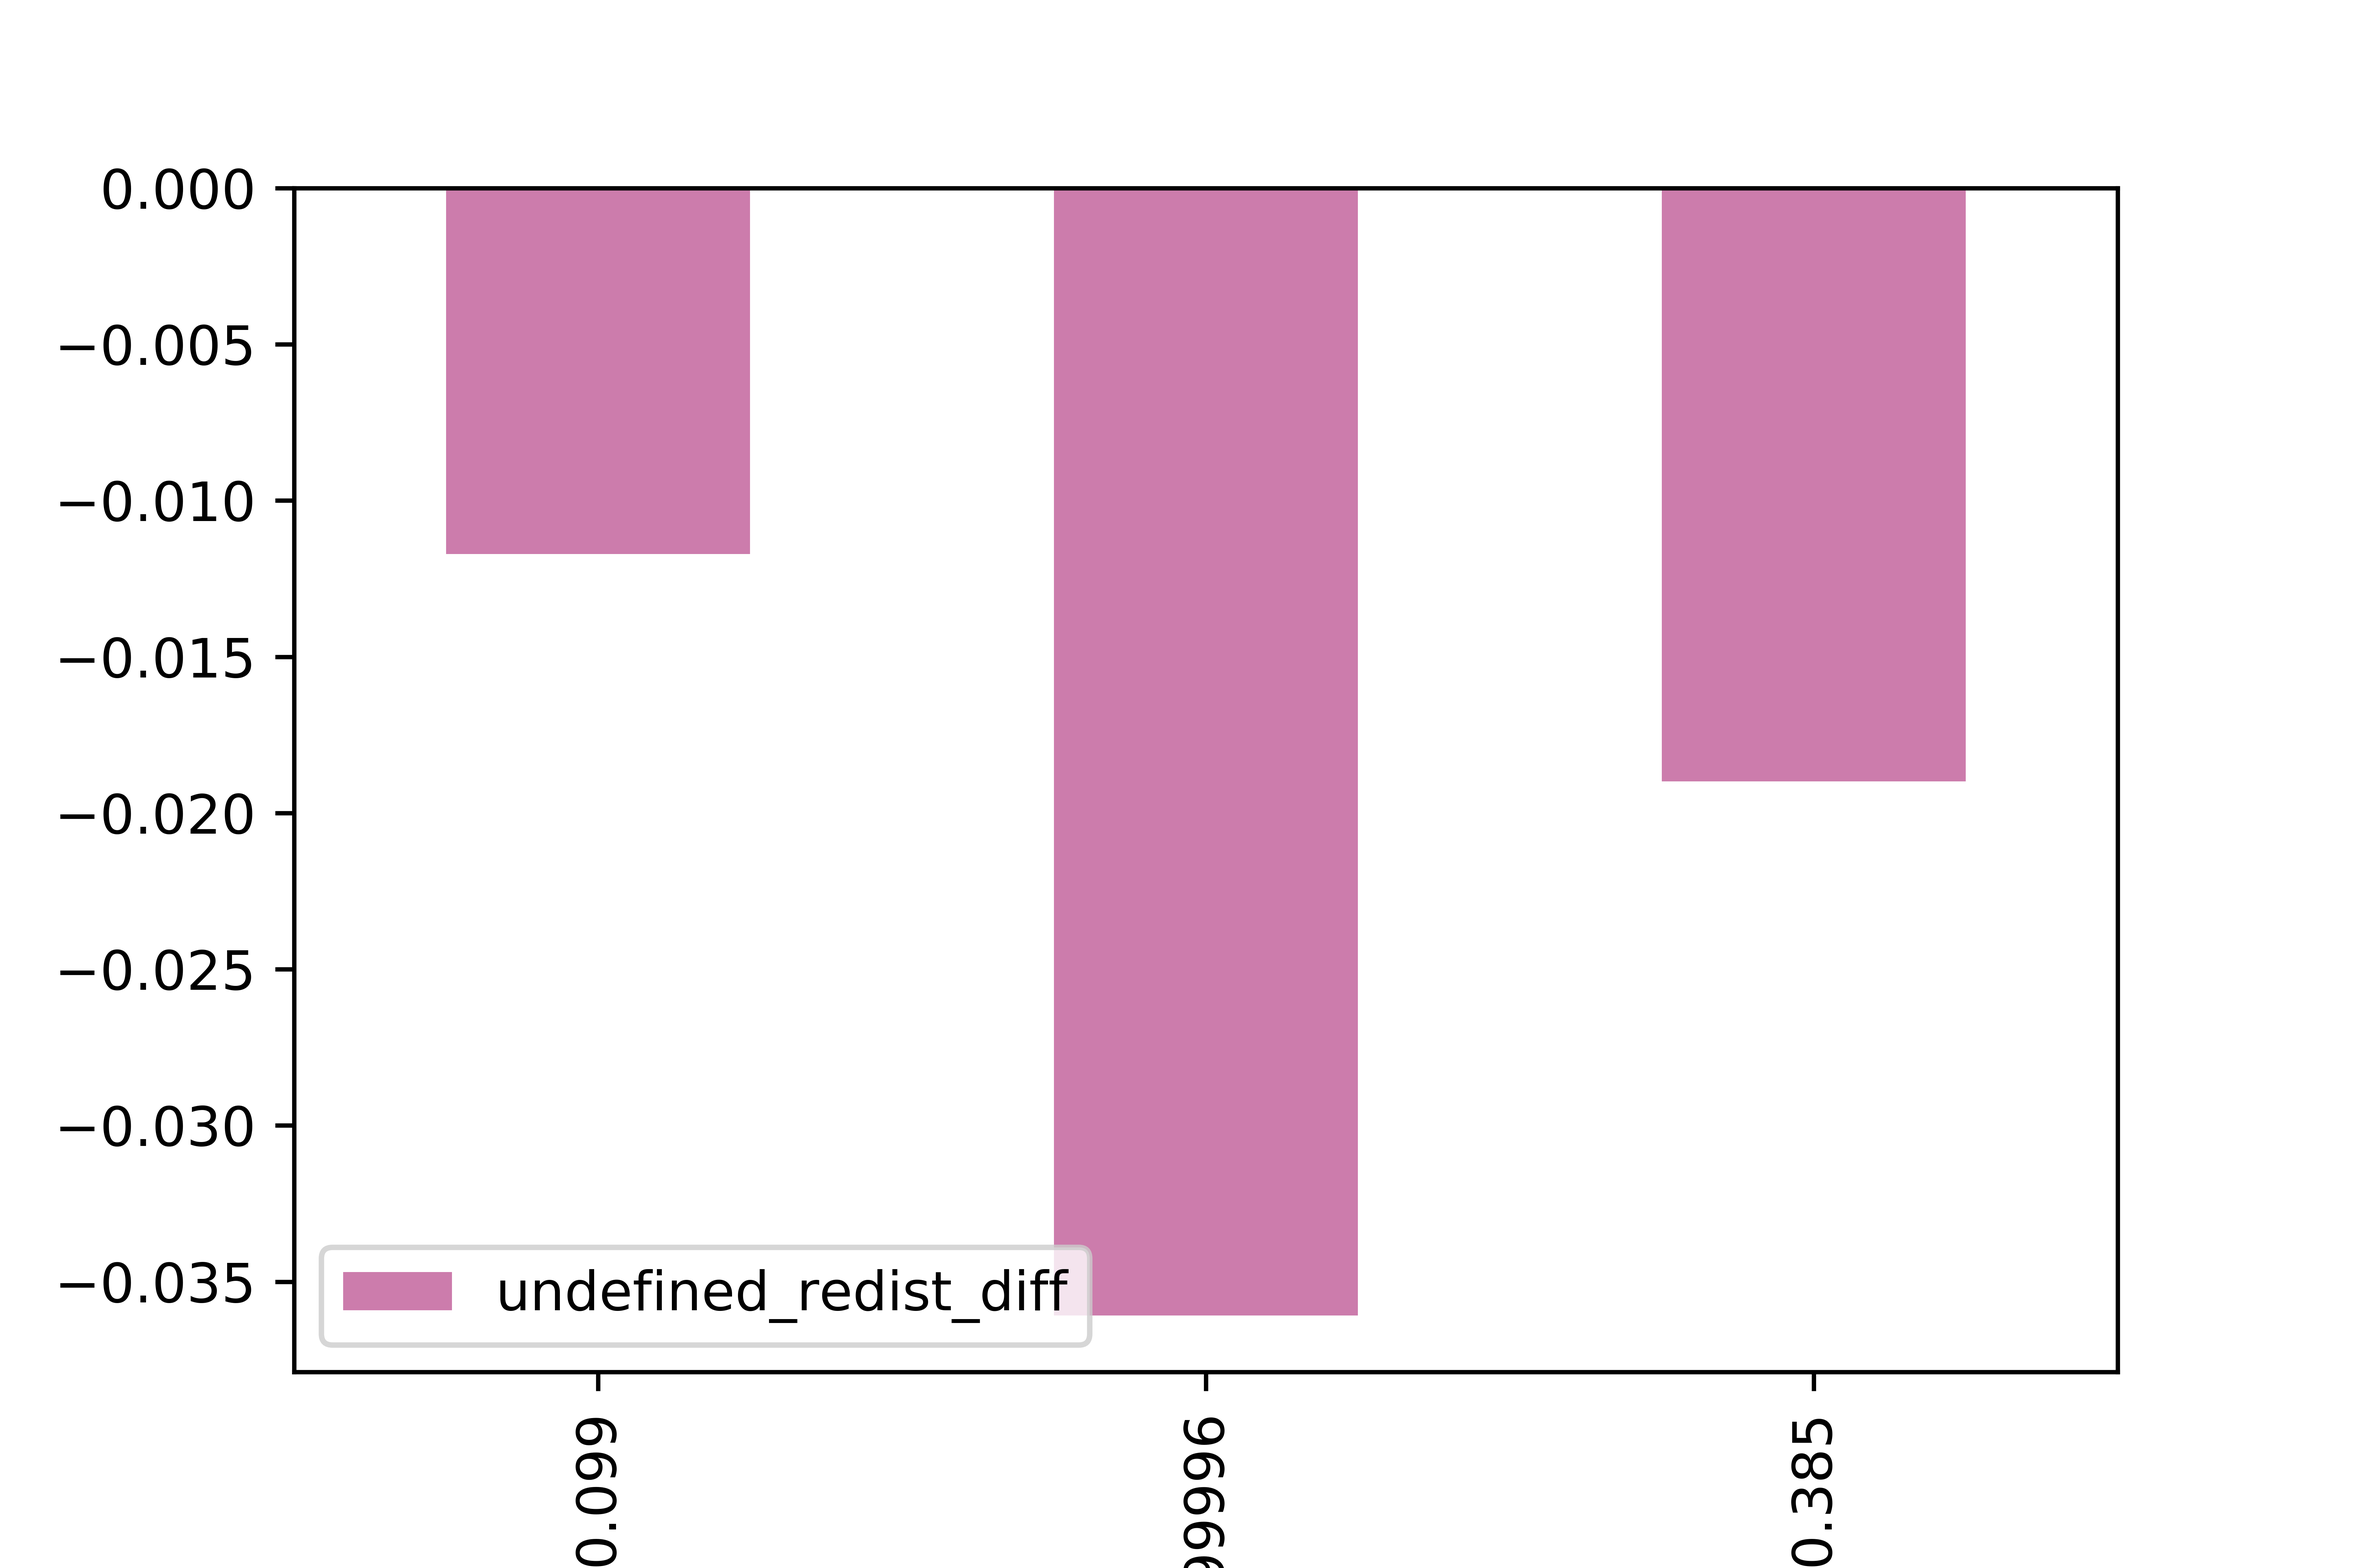
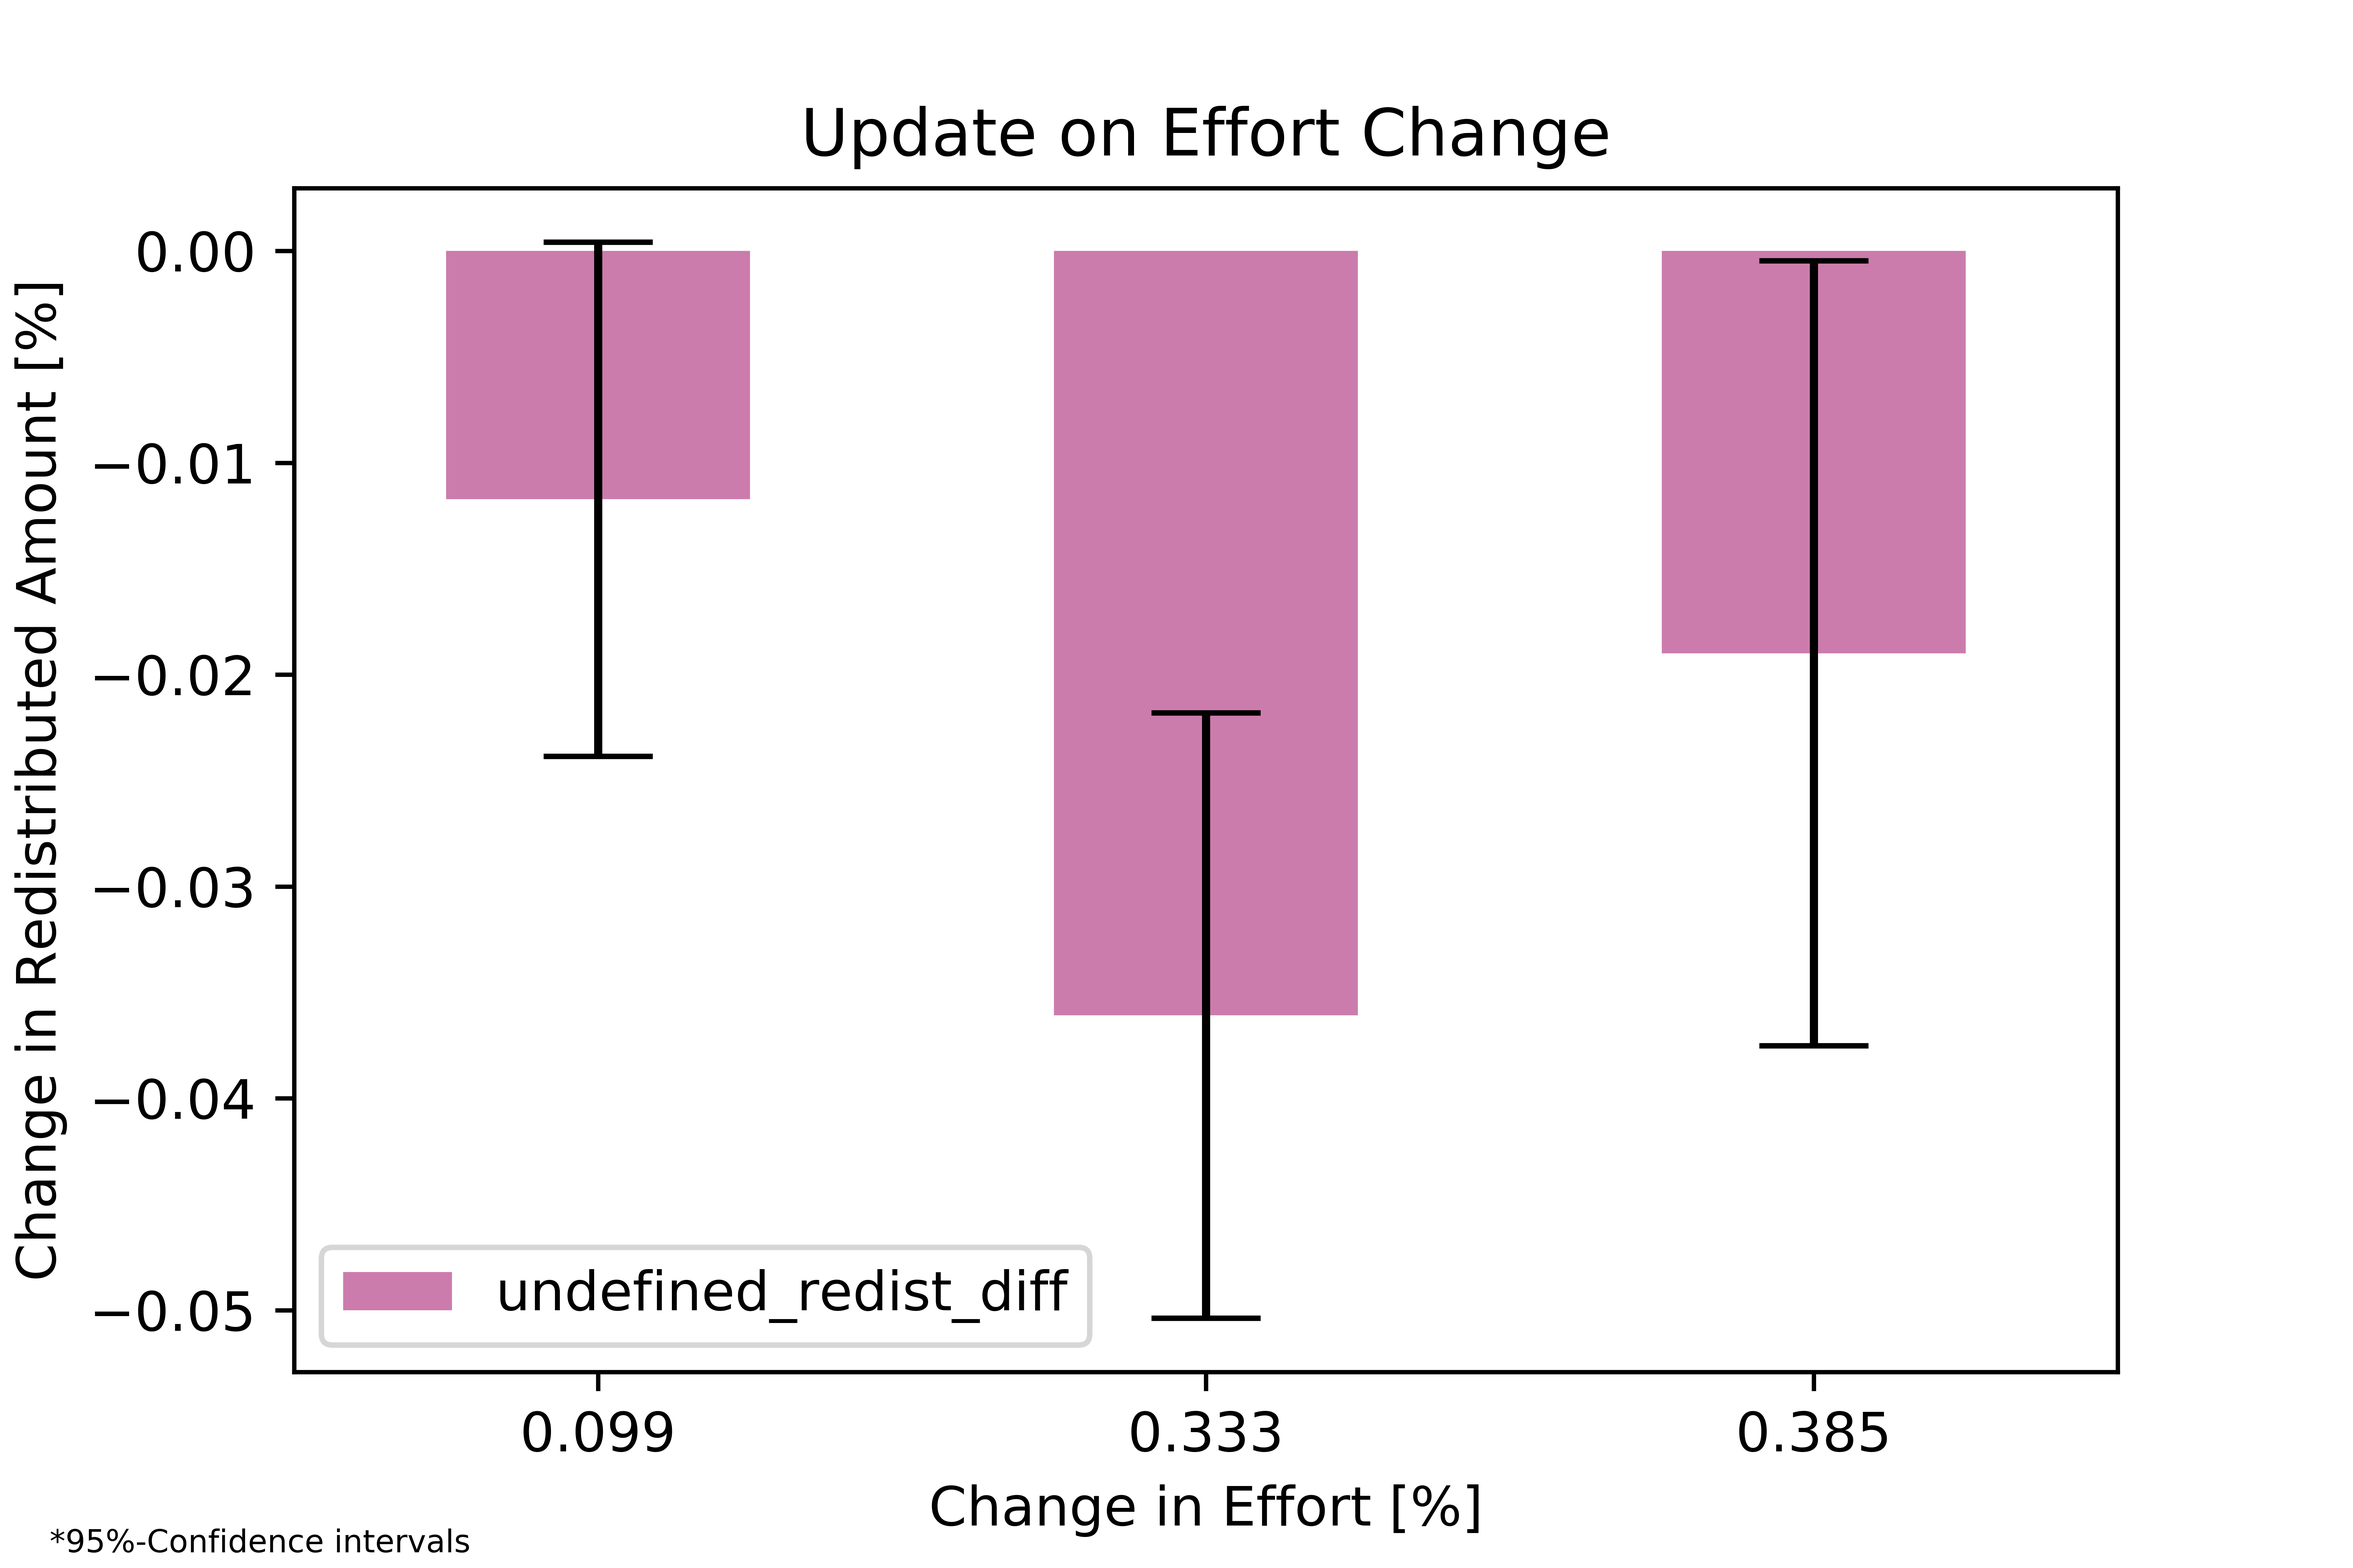
update

diff --git a/statistics/analyse_data.py b/statistics/analyse_data.py
@@ -24,6 +24,7 @@ df.groupby('treatment').mean()[['undefined_question_3', 'zsg_question_3', 'nzsg_
 df[df['treatment']== 'treatment_6']['undefined_question_3']
 #stata code
 controls =  'age + C(gender) + C(education) + C(field_of_work) + C(nationality)+ C(treatment) + C(political_party)'
+controls_as_list = []
 #redist_factor on bzsg_factor
 mod = smf.ols(formula='redist_factor ~ bzsg_factor', data=df)
 res1 = mod.fit()
@@ -84,24 +85,28 @@ textfile = open('statistics/output/regressions/redist_amoun_on_redist_amounts.tx
 textfile.write(summary_col([res1, res2, res3, res4],stars=True,float_format='%0.2f',model_names=['\n(0)','\n(1)','\n(2)','\n(3)'], info_dict={'N':lambda x: "{0:d}".format(int(x.nobs)),'R2':lambda x: "{:.2f}".format(x.rsquared)}).as_latex())
 print(summary_col([res1, res2, res3, res4],stars=True,float_format='%0.2f',model_names=['\n(0)','\n(1)','\n(2)','\n(3)'], info_dict={'N':lambda x: "{0:d}".format(int(x.nobs)),'R2':lambda x: "{:.2f}".format(x.rsquared)}).as_latex())
 textfile.close()
-
+df.columns
 #logit prob of redistribute
-logit = sm.Logit(df['undefined_question_2'], sm.add_constant(df[[ 'bzsg_factor', 'redist_factor', 'undefined_question_1']]))
-res1 = logit.fit()
-print(res1.summary())
+for vign in vignettes:
+    logit = smf.logit(formula=vign + '_question_2 ~ bzsg_factor ', data=df)
+    res1 = logit.fit()
+    print(res1.summary())
 
-logit = sm.Logit(df['zsg_question_2'], sm.add_constant(df[[ 'bzsg_factor', 'redist_factor', 'zsg_question_1']]))
-res2 = logit.fit()
-print(res2.summary())
+    logit = smf.logit(formula=vign + '_question_2 ~ bzsg_factor + redist_factor', data=df)
+    res2 = logit.fit()
+    print(res2.summary())
 
-logit = sm.Logit(df['nzsg_question_2'], sm.add_constant(df[[ 'bzsg_factor', 'redist_factor', 'nzsg_question_1']]))
-res3 = logit.fit()
+    logit = smf.logit(formula=vign + '_question_2 ~ bzsg_factor + redist_factor + ' + vign + '_question_1', data=df)
+    res3 = logit.fit()
 
+    logit = smf.logit(formula=vign + '_question_2 ~ bzsg_factor + redist_factor + ' + vign + '_question_1 + age + C(political_party) + C(gender) + C(field_of_work) + C(nationality)' , data=df)
+    res4 = logit.fit()
 
-textfile = open('statistics/output/regressions/logit_decide_to_redist_with_fairness.txt', 'w')
-textfile.write(summary_col([res1, res2, res3],stars=True,float_format='%0.2f',model_names=['undefined\n(0)','zsg\n(1)','non-zsg\n(2)'], info_dict={'N':lambda x: "{0:d}".format(int(x.nobs)),  'Pseudo R2':lambda x: "{:.2f}".format(x.prsquared)}).as_latex())
-textfile.close()
+    textfile = open('statistics/output/regressions/'+ vign +'_logit_decide_to_redist.txt', 'w')
+    textfile.write(summary_col([res1, res2, res3, res4],stars=True,float_format='%0.2f',model_names=['\n(0)','\n(1)','\n(2)','\n(3)'], info_dict={'N':lambda x: "{0:d}".format(int(x.nobs)),  'Pseudo R2':lambda x: "{:.2f}".format(x.prsquared)}).as_latex())
+    textfile.close()
 
+df.groupby('education').count()
 
 
 
@@ -118,8 +123,11 @@ mra.bar(vignette_names, mean, color=colors, yerr=error, align='center', alpha=0.
 mra.set_title('Vignettes: Fairness')
 mra.set_ylabel('How unfair')
 mra.set_xticklabels(vignette_names, rotation=0)
+plt.figtext(0.2, 0.01, '*95%-Confidence intervals', horizontalalignment='right', fontdict={'size': 'xx-small'})
 
 mra.get_figure().savefig('statistics/output/graphs/Vignettes_Fairness.png', dpi=resolution)
+
+plt.clf()
 
 #Vignttes want to redistribute
 mean = df[['undefined_question_2', 'zsg_question_2', 'nzsg_question_2']].mean()
@@ -132,9 +140,10 @@ mra.bar(vignette_names, mean, color=colors, yerr=error, align='center', alpha=0.
 mra.set_title('Vignettes: Redistribute')
 mra.set_ylabel('Fraction')
 mra.set_xticklabels(vignette_names, rotation=0)
+plt.figtext(0.2, 0.01, '*95%-Confidence intervals', horizontalalignment='right', fontdict={'size': 'xx-small'})
 
 mra.get_figure().savefig('statistics/output/graphs/Vignettes_Redistribute.png', dpi=resolution)
-
+plt.clf()
 
 #Vignettes mean redistributed amount
 mean = df[['undefined_question_3', 'zsg_question_3', 'nzsg_question_3']].mean()
@@ -147,8 +156,10 @@ mra.bar(vignette_names, mean, color=colors, yerr=error, align='center', alpha=0.
 mra.set_title('Vignettes: Mean Redistributed Amount')
 mra.set_ylabel('Fraction')
 mra.set_xticklabels(vignette_names, rotation=0)
+plt.figtext(0.2, 0.01, '*95%-Confidence intervals', horizontalalignment='right', fontdict={'size': 'xx-small'})
 
 mra.get_figure().savefig('statistics/output/graphs/Vignettes_Mean_Redistributed_Amount.png', dpi=resolution)
+plt.clf()
 
 #Vignettes Updated redistributed amount
 mean = df[['undefined_question_4', 'zsg_question_4', 'nzsg_question_4']].mean()
@@ -161,10 +172,11 @@ mra.bar(vignette_names, mean, color=colors, yerr=error, align='center', alpha=0.
 mra.set_title('Vignettes: Updated Mean Redistributed Amount')
 mra.set_ylabel('Fraction')
 mra.set_xticklabels(vignette_names, rotation=0)
+plt.figtext(0.2, 0.01, '*95%-Confidence intervals', horizontalalignment='right', fontdict={'size': 'xx-small'})
 
 mra.get_figure().savefig('statistics/output/graphs/Vignettes_Updated_Mean_Redistributed_Amount.png', dpi=resolution)
 
-
+plt.clf()
 #Distribution of reddistributed amount
 for name, color in zip(vignettes, colors):
     mean = df[df[name+'_question_2'] == 1][name+'_question_3'].mean()
@@ -179,7 +191,6 @@ for name, color in zip(vignettes, colors):
 
 
 #change between question 3 and 4
-
 df[df['undefined_question_3'] != df['undefined_question_4']]
 diff_3_4  =df[df[name+'_question_2'] == 1][name+'_question_3'] - df[df[name+'_question_2'] == 1][name+'_question_3']
 for name, color in zip(vignettes, colors):
@@ -227,9 +238,20 @@ mean.plot.bar(y='nzsg_redist_diff', color=color, alpha=0.75)
 df[df['undefined_question_2'] != 0]['undefined_redist_diff'].plot.hist()
 df['nzsg_effort_diff'].max()
 df['undefined_redist_diff']
+
 for vign, color in zip(vignettes, colors):
+
     mean = df.groupby(vign + '_effort_diff').mean()
-    b = mean.plot.bar(y=vign+'_redist_diff', color=color, alpha=0.75)
+    std = df.groupby(vign + '_effort_diff').std()
+    error = std*ci_value/np.sqrt(len(df))
+
+    b = mean.plot.bar(y=vign+'_redist_diff', color=color, alpha=0.75, yerr=error, align='center',ecolor='black', capsize=10)
+
+    b.set_title('Update on Effort Change')
+    b.set_ylabel('Change in Redistributed Amount [%]')
+    b.set_xlabel('Change in Effort [%]')
+    b.set_xticklabels([0.099, 0.333, 0.385],rotation=0)
+    plt.figtext(0.2, 0.01, '*95%-Confidence intervals', horizontalalignment='right', fontdict={'size': 'xx-small'})
 
     b.get_figure().savefig('statistics/output/graphs/' + vign + '_redist_vs_effort_diff.png', dpi=resolution)
     plt.clf()
